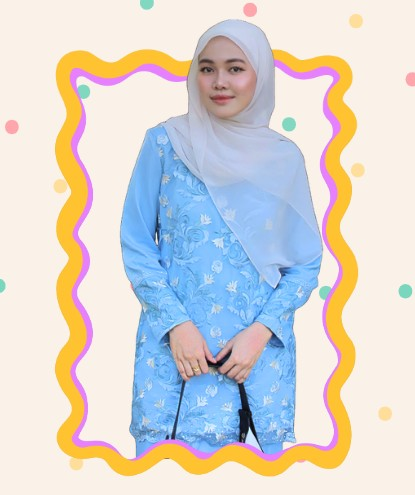
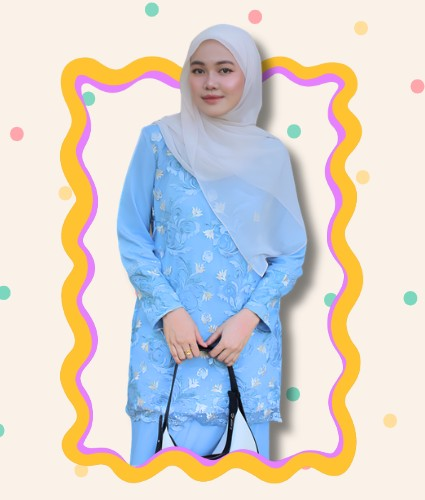
Committee: new photo for Anis Nabihah

diff --git a/index.html b/index.html
@@ -14,7 +14,7 @@
 <link rel="preconnect" href="https://fonts.googleapis.com">
 <link rel="preconnect" href="https://fonts.gstatic.com" crossorigin>
 <link href="https://fonts.googleapis.com/css2?family=Baloo+2:wght@500;600;700;800&family=Nunito:wght@400;600;700;800&family=Gaegu:wght@700&display=swap" rel="stylesheet">
-<link rel="stylesheet" href="css/style.css?v=20261105n">
+<link rel="stylesheet" href="css/style.css?v=20261105o">
 </head>
 <body>
 <div class="blob-field">
@@ -517,7 +517,7 @@
 <script src="https://www.gstatic.com/firebasejs/10.12.2/firebase-app-compat.js" integrity="sha384-AQ3POAMqIhwS81FrUH95ekxqBZHeP5tG2JfEL3+7GuTtfRLWnrRh32UxwzM+//A9" crossorigin="anonymous"></script>
 <script src="https://www.gstatic.com/firebasejs/10.12.2/firebase-auth-compat.js" integrity="sha384-TnlRYaR4JYz/lpaGuaiU61PjNberSA4vjLjtF+oRC/IkohkJqnWxw5EmDSOt1vA1" crossorigin="anonymous"></script>
 <script src="https://www.gstatic.com/firebasejs/10.12.2/firebase-firestore-compat.js" integrity="sha384-qn4Jh88HhJA8dplNQyGjOh9OGI4izVhrfj/qIFgaKcdgOE06pXqIKGlsCILZcLAC" crossorigin="anonymous"></script>
-<script src="js/firebase-config.js?v=20261105n"></script>
-<script src="js/script.js?v=20261105n"></script>
+<script src="js/firebase-config.js?v=20261105o"></script>
+<script src="js/script.js?v=20261105o"></script>
 </body>
 </html>

diff --git a/js/script.js b/js/script.js
@@ -346,7 +346,7 @@ window.addEventListener('hashchange', route);
 var COMMITTEE = [
   {role:'Advisors', tier:'top', people:[{n:'Puan Nurul Asikin binti Roslan'}, {n:'Encik Nazrul Ikhwan bin Nizam'}]},
   {role:'Project Manager', tier:'pm', people:[{n:'Adam Ridhwan bin Safie'}]},
-  {role:'Project Assistant', tier:'pa', people:[{n:'Anis Nabihah binti Jalaludin Albakri', photo:'anis.jpg?v=4'}]},
+  {role:'Project Assistant', tier:'pa', people:[{n:'Anis Nabihah binti Jalaludin Albakri', photo:'anis.jpg?v=5'}]},
   {role:'Secretary', tier:'lead', people:[{n:'Durrah ’Izzati binti Nazmi'}]},
   {role:'Treasurer', tier:'lead', people:[{n:'Muhammad Hanif Danial bin Jurayme'}]},
   {role:'Head of Facilitator', tier:'unit', people:[{n:'Muhammad Hidayatullah bin Zahari'}]},
